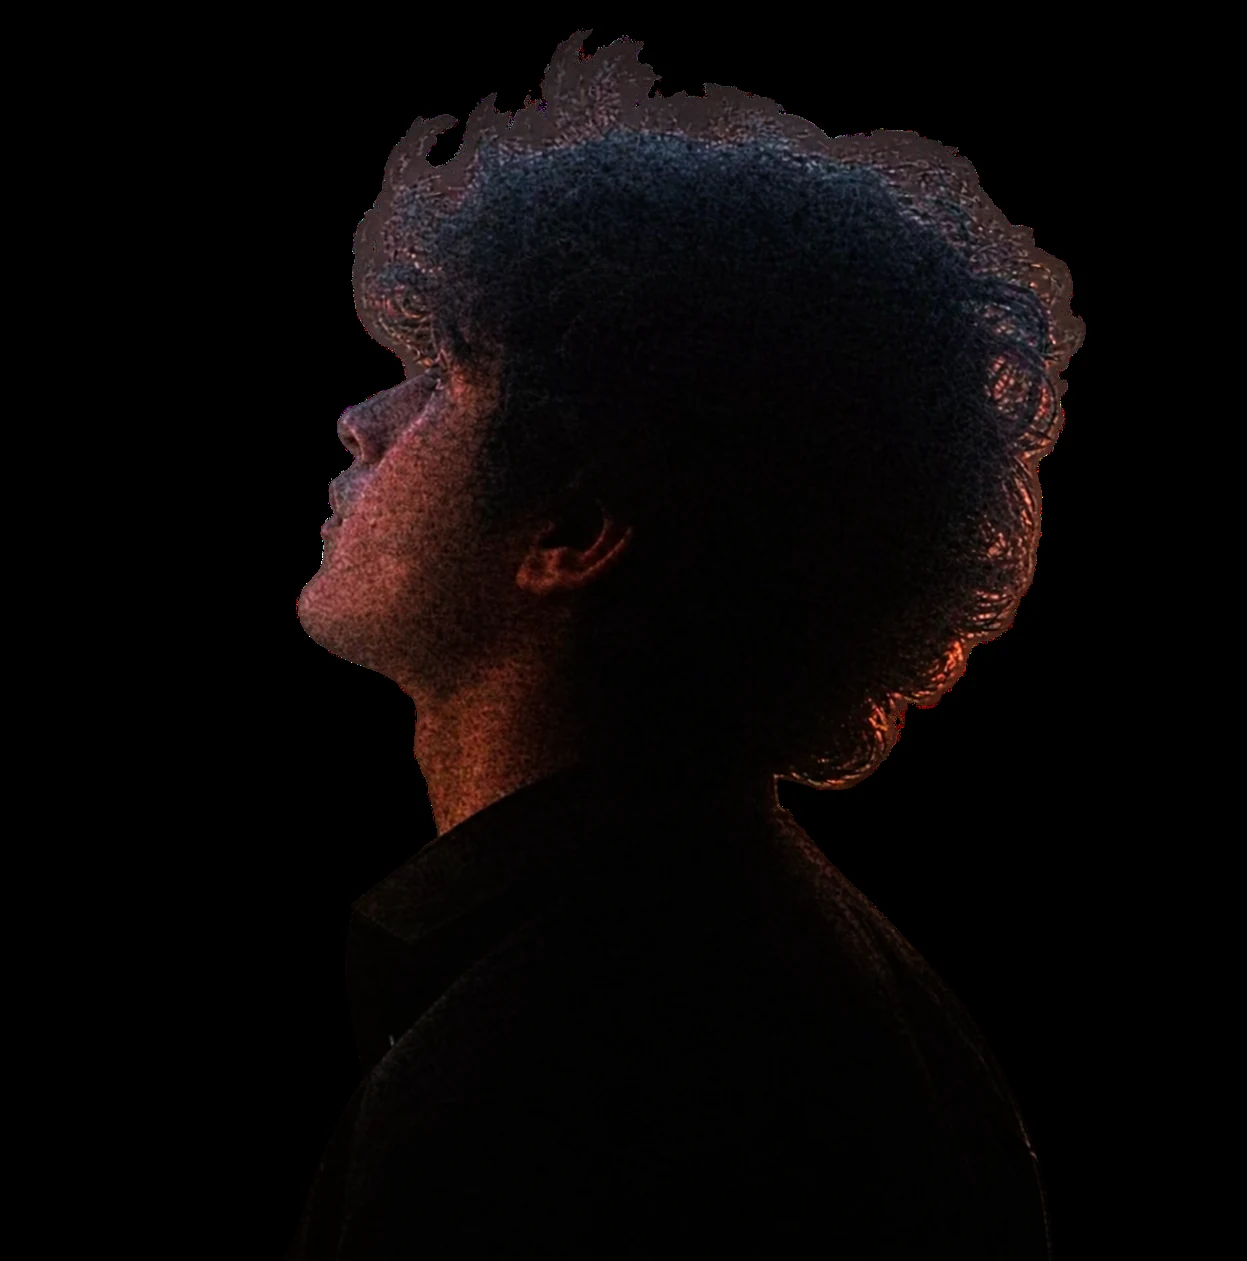
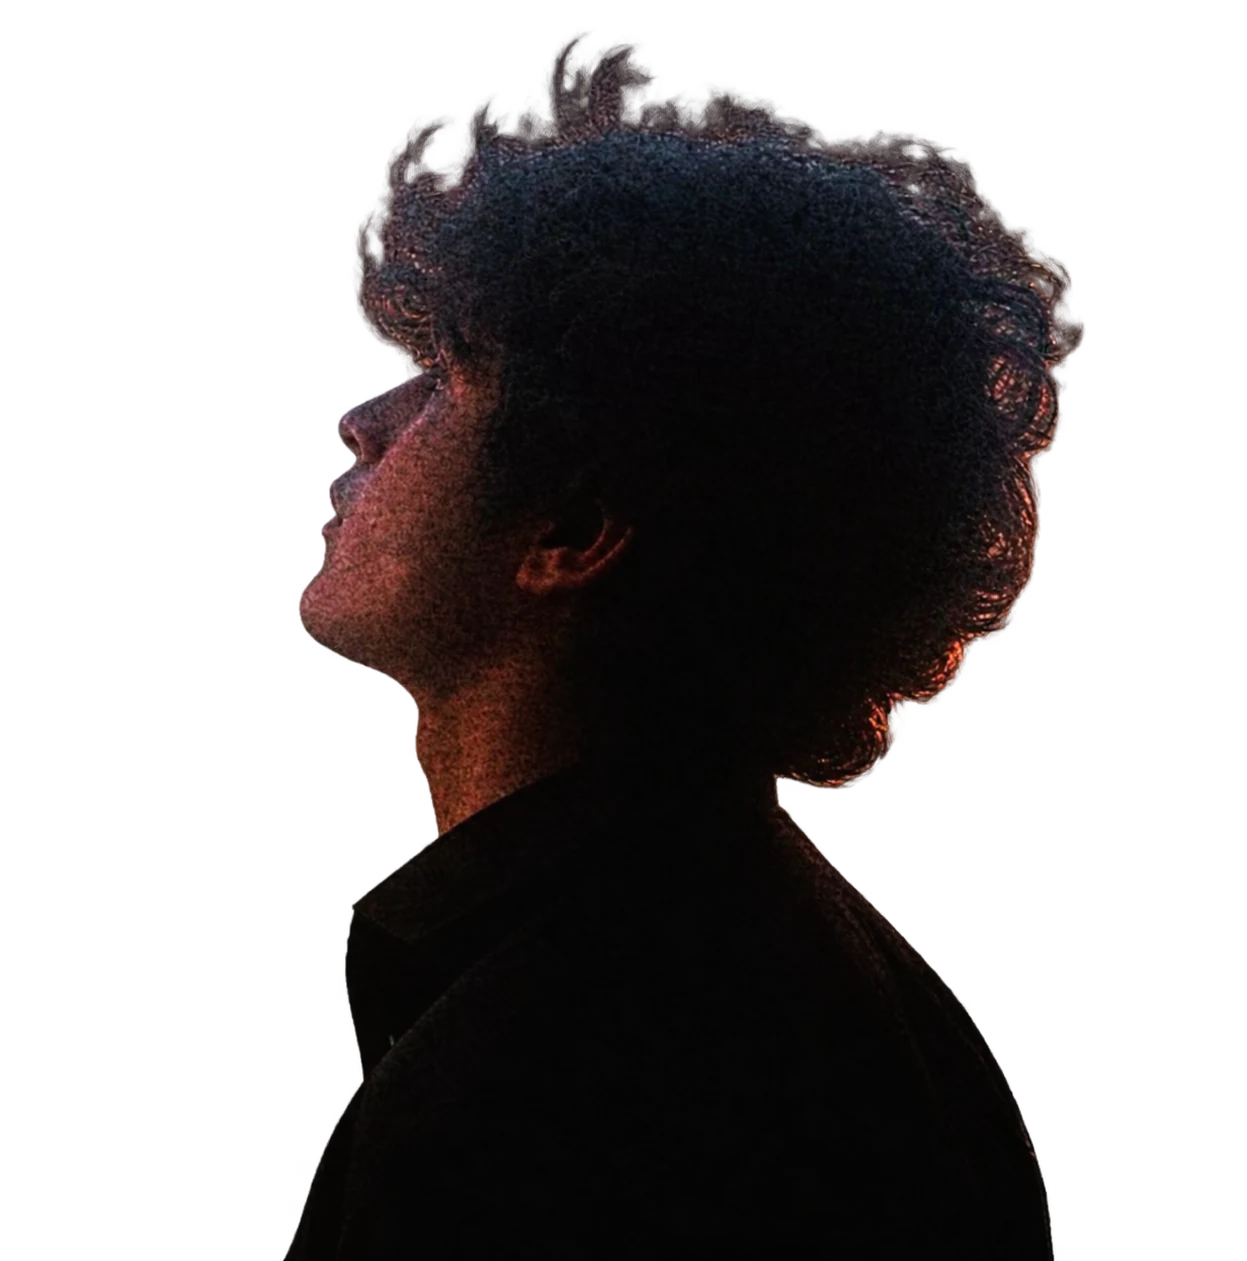
Restore the hero cut-out's transparency; revert the Contact copy
Two regressions from 6d2bee1, both mine.

Hero. The asset pass converted hero-photo.png to WebP for size, and the
conversion silently flattened the alpha channel: the source is a cut-out
portrait, 53% of it transparent, and it came out RGB with the transparent
half composited to solid black. The page ground is #050506 and the hero
draws a grid field behind the photo, so the portrait's bounding box became
an opaque rectangle punched through that grid. That rectangle is the
"background" that appeared.

Re-encoded from the same source with alpha preserved. The alpha channel
round-trips exactly against the original PNG (max per-pixel difference 0)
and the visible pixels differ by a mean of 1.26/255, so this is the
pre-audit hero, not an approximation of it. 58KB to 154KB, still an
order of magnitude under the 1.05MB PNG.

The same pass converted memetent.png, which was also RGBA. Checked: its
alpha was 100% opaque, so dropping it changed nothing. Left as is.

Contact. Reverted to its pre-audit state as asked: the heading goes back
to "Hiring, or building something? Say hi." and Jack back to "He actually
replies. Usually." The form markup and the FormSubmit handler were never
touched by that commit and are unchanged.

diff --git a/components/contact/ContactSection.tsx b/components/contact/ContactSection.tsx
@@ -86,20 +86,20 @@ export default function ContactSection() {
     >
       <div className="panel panel-ticks w-full max-w-5xl p-6 sm:p-12">
         <div className="mb-10 flex items-baseline justify-between">
-          <h2 className="eyebrow m-0 font-normal">Contact</h2>
+          <p className="eyebrow">Contact</p>
           <p className="tech-index">SEC 04</p>
         </div>
 
         <div className="grid gap-12 lg:grid-cols-[1fr_1fr] lg:gap-16">
           <div>
-            <motion.h3
+            <motion.h2
               {...rise(1)}
               className="mt-5 text-[clamp(1.9rem,4.5vw,3rem)] font-light leading-[1.05] tracking-[-0.04em]"
             >
-              Class of 2027. Hiring for
+              Hiring, or building
               <br />
-              product engineering or DevRel?
-            </motion.h3>
+              something? Say hi.
+            </motion.h2>
 
             <motion.dl {...rise(2)} className="mt-10 space-y-4">
               <div>
@@ -234,7 +234,7 @@ export default function ContactSection() {
             stopAt={0.34}
             lines={[
               'Still here? Say something.',
-              'He reads every one.',
+              'He actually replies. Usually.',
             ]}
           />
         </div>
